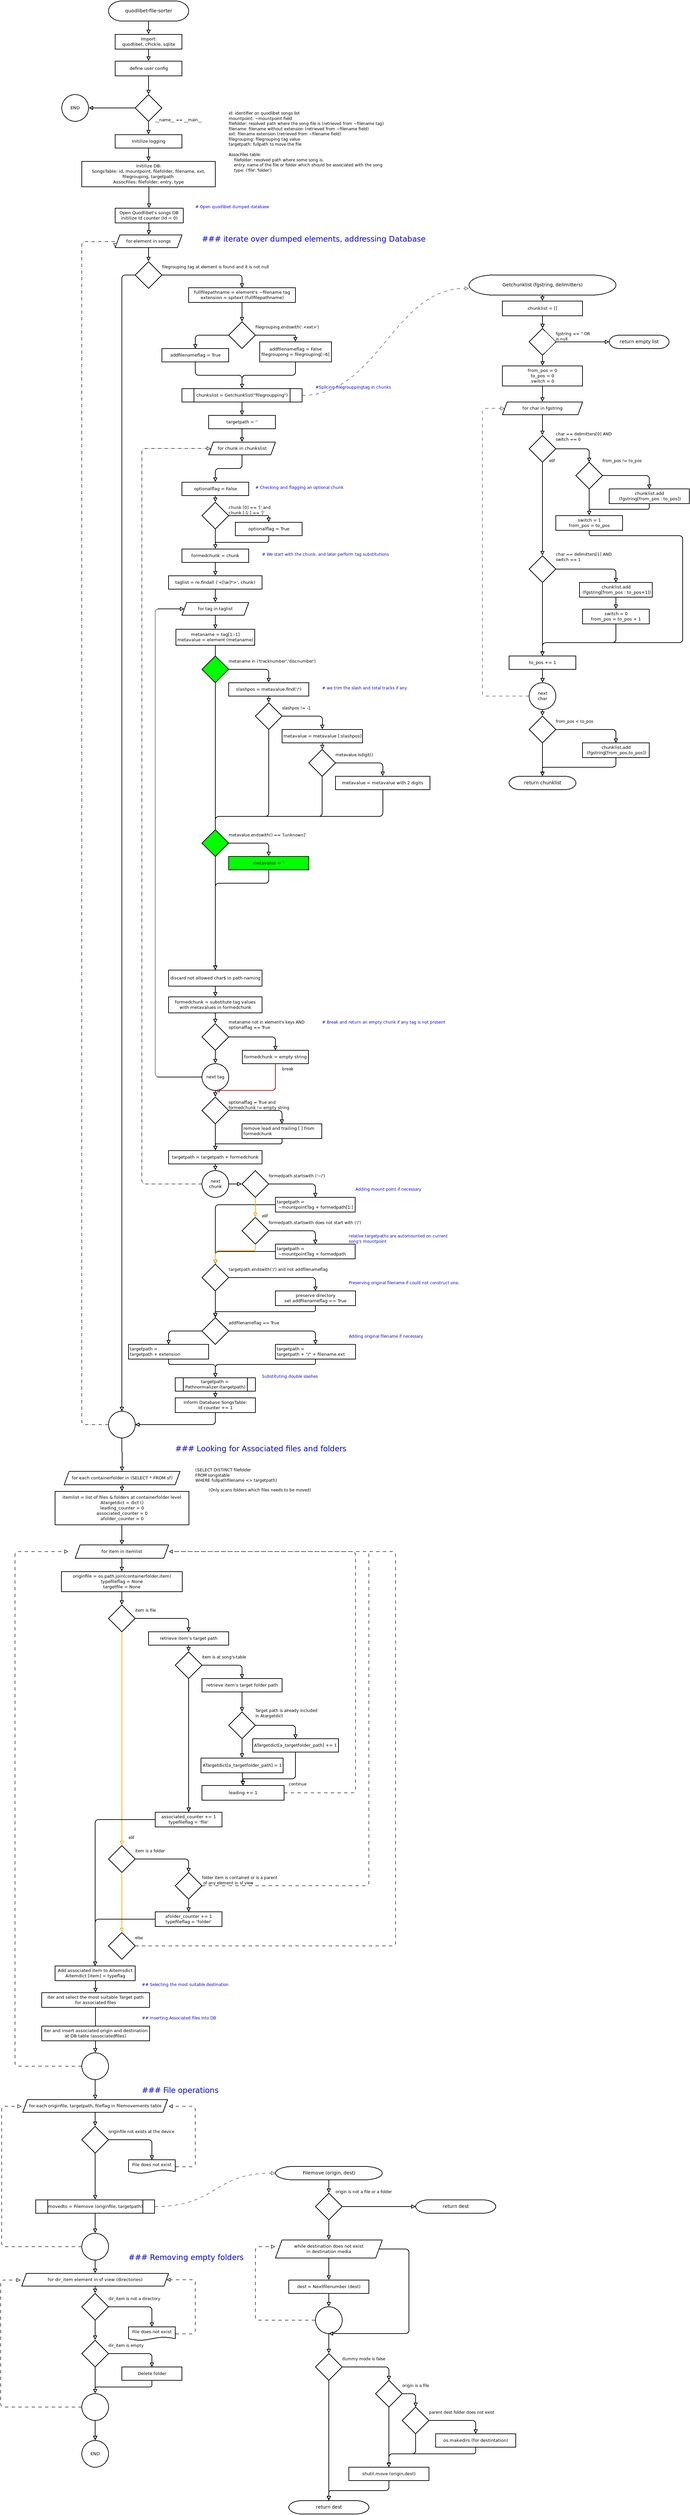
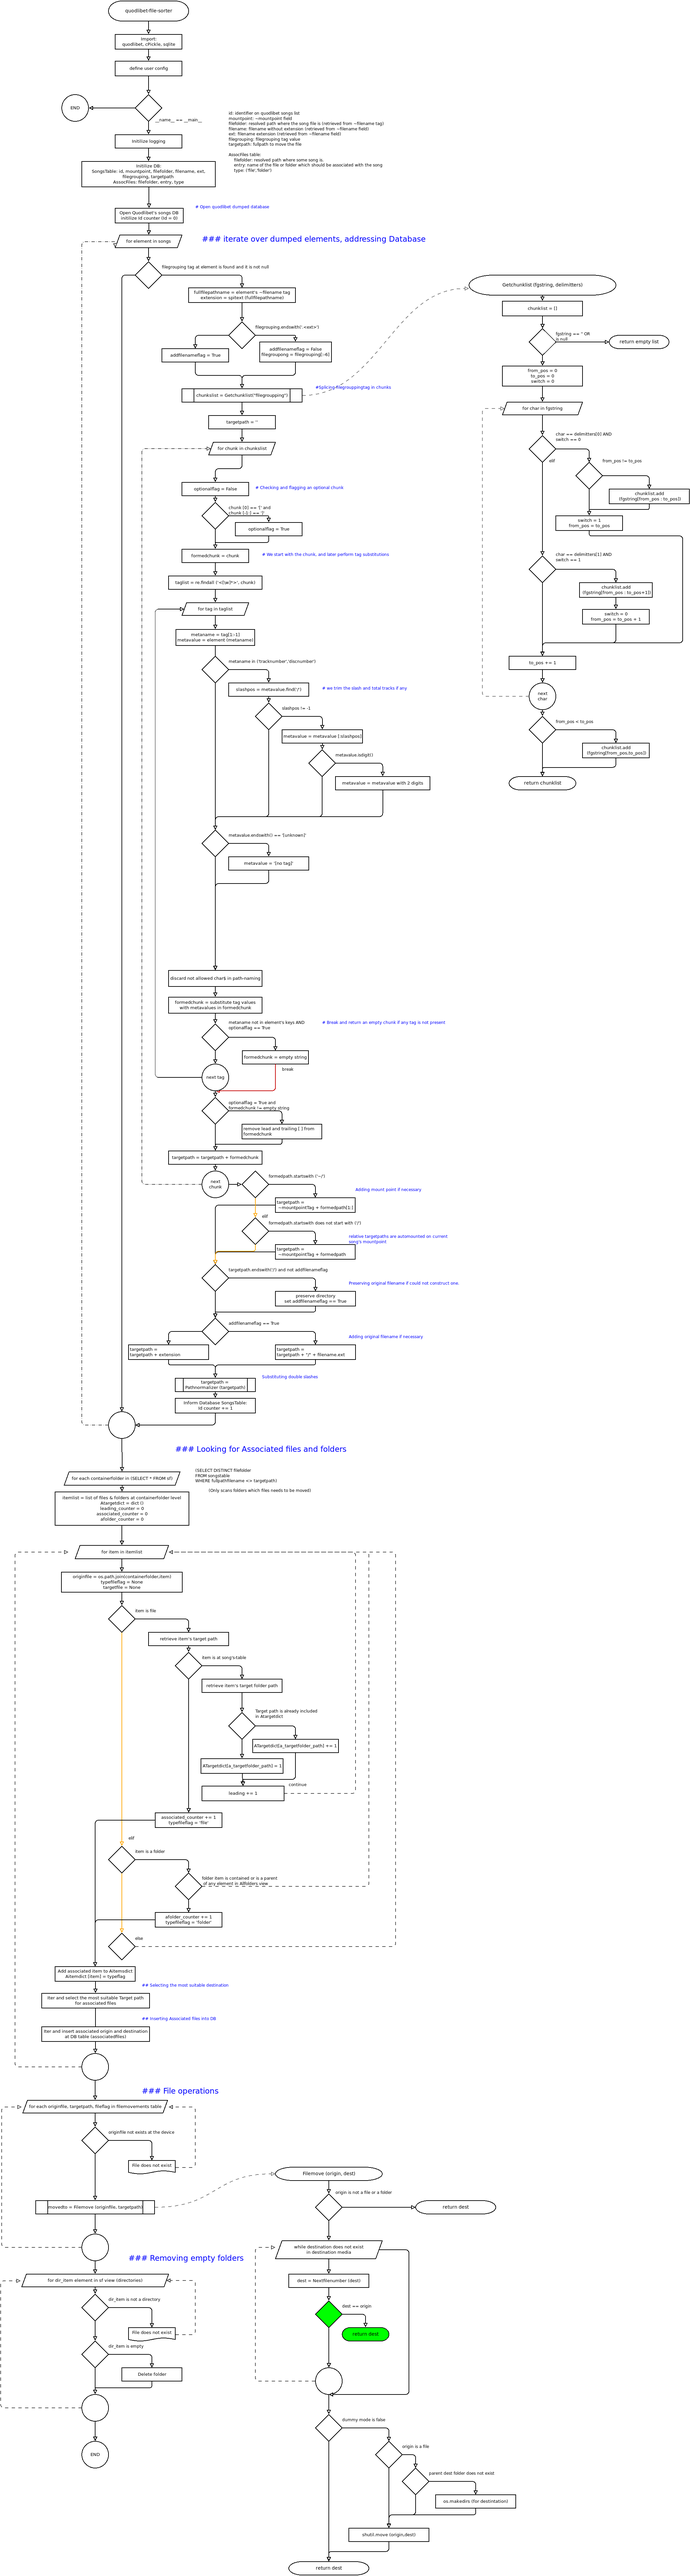
Bug #3 solved. Dancing iterating names.

diff --git a/quodlibet_filesorter.py b/quodlibet_filesorter.py
@@ -141,7 +141,10 @@ def Filemove (origin, dest):
 		return None
 	while itemcheck (dest) != "":
 		dest = Nextfilenumber (dest)
-		logging.info ("Object-file already exists at destination, assigning recursively a new name. >> {}".format(dest))
+		logging.info ("\tObject-file already exists at destination, assigning recursively a new name. >> {}".format(dest))
+		if dest == origin:
+			logging.info ("\tFound itself while iterating a new name. The file remains.>> {}".format(dest))
+			return dest
 
 	if not dummy:
 		if origin_is == 'file':
@@ -189,7 +192,7 @@ class Progresspercent:
 userlibrary = os.path.join(os.getenv('HOME'),'.quodlibet/songs')  # Place where the quod-libet cPickle object is
 userfilegrouppingtag = 'filegroupping'  # Tag name which defines the desired path structure for the file
 dbpathandname = userfilegrouppingtag + '.sqlite3'  # Sqlite3 database archive for processing
-dummy = True  # Dummy mode, True means that the software will check items, but will not perform file movements
+dummy = False  # Dummy mode, True means that the software will check items, but will not perform file movements
 # (not in use) # cpmode = 'move'  # 'copy' or 'move' for copy or move the processed files.
 
 #=====================================
@@ -305,7 +308,7 @@ if __name__ == '__main__':
 							if metavalue.isdigit():
 								metavalue = '{:0>2}'.format (metavalue)
 						if metavalue.endswith('[Unknown]'):
-							metavalue = '[no title]'
+							metavalue = '[no <{}>]'.format(metaname)
 						logging.debug ('\t\tmetaname = {}\tmetavalue = {}'.format(metaname,metavalue))
 
 						metavalue = CharChange (metavalue)  # clears some non allowed chars
@@ -444,7 +447,7 @@ if __name__ == '__main__':
 		progressindicator.showprogress (counter); counter += 1
 		logging.debug ('\t {}	from: {}'.format(fileflag,origin))
 		if itemcheck (origin) == '':
-			loggingmsg = '\t Warning, {} at {} does not exist. Skipping'.format(fileflag,origin)
+			loggingmsg = '** Warning, {} at {} does not exist. Skipping'.format(fileflag,trimto(origin,20))
 			print loggingmsg
 			logging.warning (loggingmsg)
 			continue
